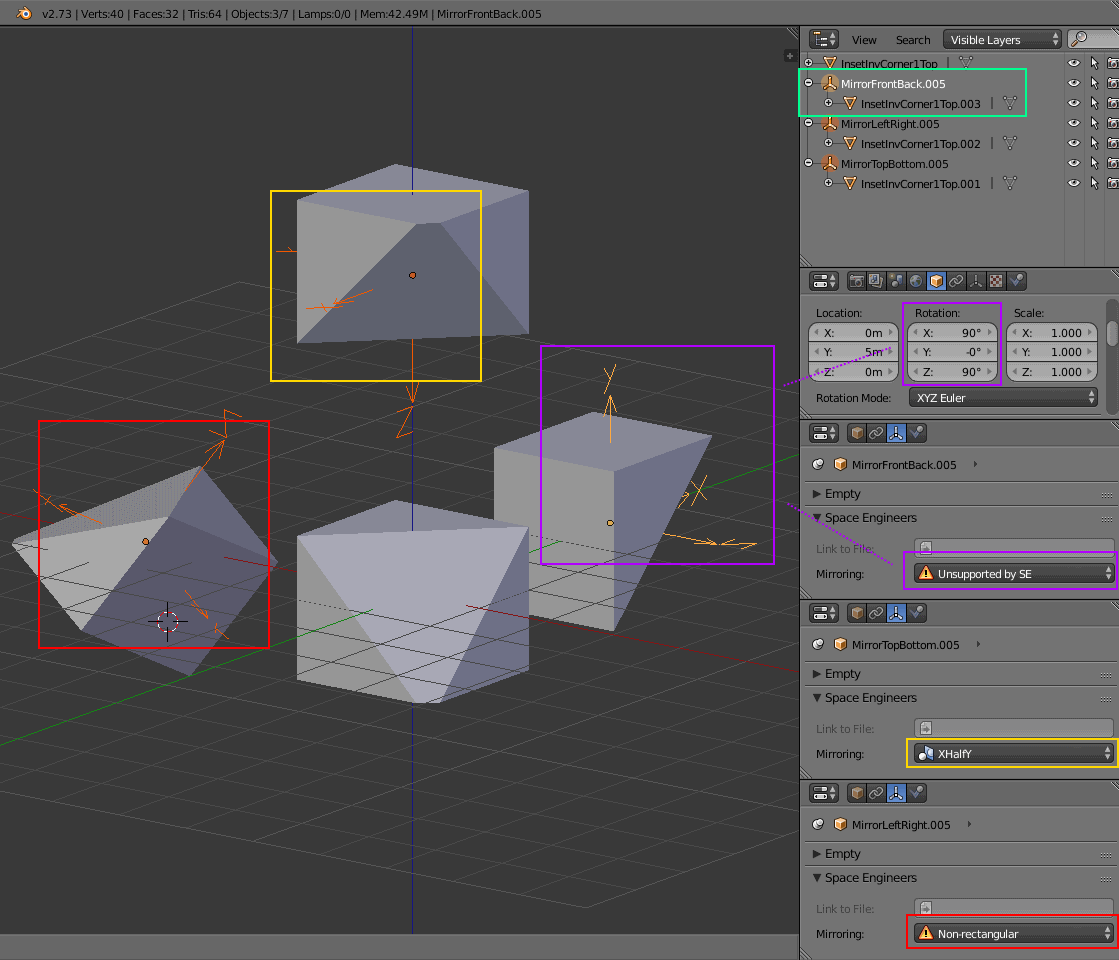
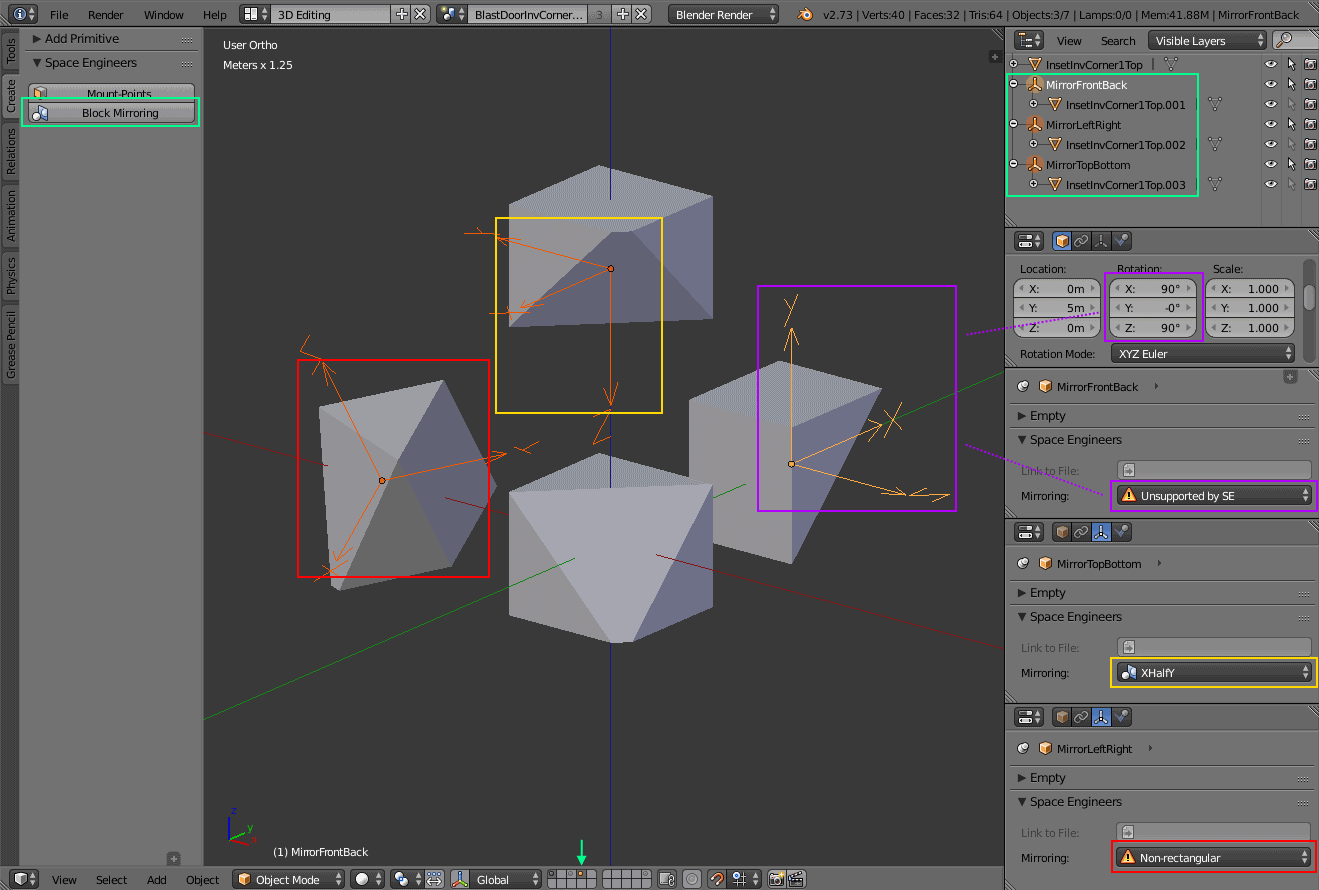
Documentation updated.

diff --git a/index.html b/index.html
@@ -1198,26 +1198,26 @@ pointing towards the mirroring-plane. So there is a maximum of three independent
 </div>
 <div class="paragraph">
 <p>You can model these rotations in Blender by adding and rotating three specially named empties to the scene.
-By default they are expected to be placed on layer 4.
-Fittingly their names have to start with either <code>MirrorLeftRight</code>, <code>MirrorTopBottom</code> or <code>MirrorFrontBack</code>&#8201;&#8212;&#8201;so they can be named <code>MirrorLeftRight.001</code> and will still be recognized by the add-on.</p>
+Fittingly their names are <code>MirrorLeftRight</code>, <code>MirrorTopBottom</code> and <code>MirrorFrontBack</code>.
+They need to be placed on the layer that is designated as the mirroring layer in the export settings.
+By default this is layer four. Use the corresponding button on the Tools panel of the 3D view to quickly do so.
+It&#8217;s okay if Blender adds a .001 suffix to the names, the add-on can handle that.</p>
 </div>
 <div class="paragraph">
-<p>Rotations you set on those empties are only valid for export if they are multiples of 90°&#8201;&#8212;&#8201;so it&#8217;s a good idea to turn on snapping when you rotate them in the 3D view.
+<p>The rotations you set on the empties are only valid for export if they are multiples of 90°&#8201;&#8212;&#8201;so it&#8217;s a good idea to turn on snapping when you rotate them in the 3D view.
 Even if you adhere to that rule some combinations cannot be used because SE does not support them.
 To check if a rotation is valid watch the <code>Mirroring</code> property on the Data tab of the empty.</p>
 </div>
-<div class="admonitionblock tip">
+<div class="admonitionblock note">
 <table>
 <tr>
 <td class="icon">
-<i class="fa icon-tip" title="Tip"></i>
+<i class="fa icon-note" title="Note"></i>
 </td>
 <td class="content">
-To get a visual cue if a rotation is the correct one you can create
-<a href="http://wiki.blender.org/index.php/Doc:2.6/Manual/Modeling/Objects/Duplication#Linked_Duplicates">linked copies</a>
-of your main model and
-<a href="http://wiki.blender.org/index.php/Doc:2.6/Manual/Modeling/Objects/Groups_and_Parenting">parent</a>
-them to the mirroring-empties.
+The objects that are attached to the empties are
+<a href="http://wiki.blender.org/index.php/Doc:2.6/Manual/Modeling/Objects/Duplication#Linked_Duplicates">linked duplicates</a>
+of your main model. So modifying them will also change your main model and vice versa.
 </td>
 </tr>
 </table>
@@ -1427,7 +1427,7 @@ and add the missing properties like <code>&lt;TypeId&gt;</code> and <code>&lt;Co
 </div>
 <div id="footer">
 <div id="footer-text">
-Last updated 2015-03-05 23:28:19 CET
+Last updated 2015-03-08 21:29:36 CET
 </div>
 </div>
 </body>
